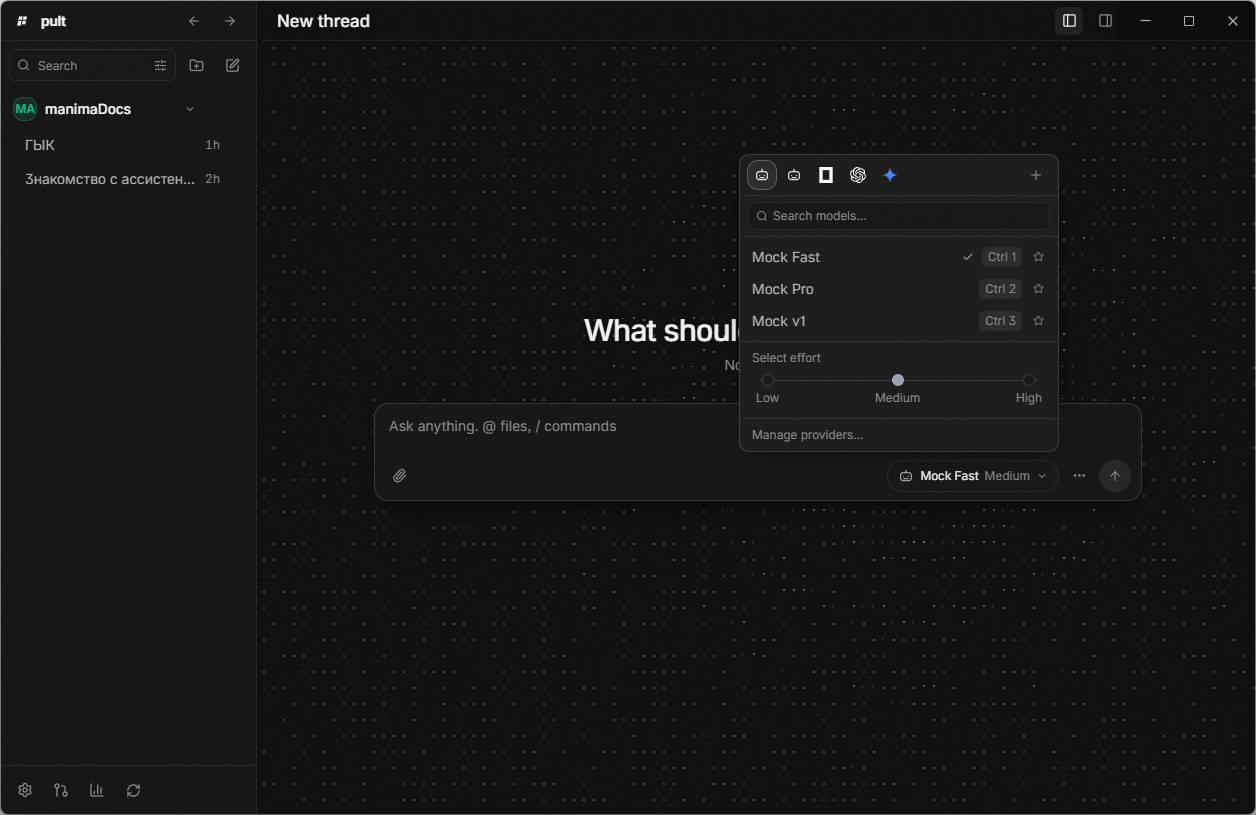
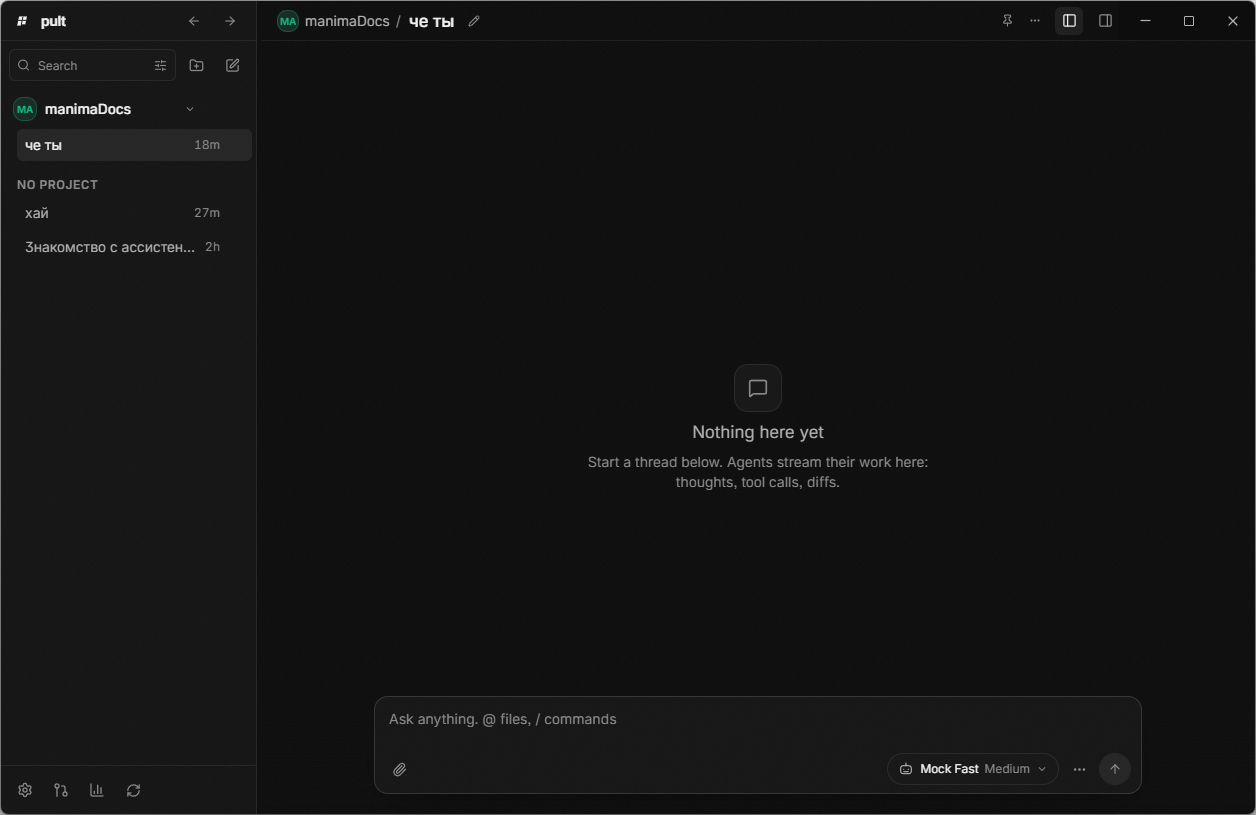
fix: prevent warmup storms and cap oversized image payloads

diff --git a/src/routes/__root.tsx b/src/routes/__root.tsx
@@ -1,4 +1,4 @@
-import { useEffect, useState } from "react";
+import { useEffect, useRef, useState } from "react";
 import { Outlet, createRootRoute, useRouter } from "@tanstack/react-router";
 import { Sidebar } from "../components/layout/Sidebar";
 import { RightPanel } from "../components/layout/RightPanel";
@@ -50,12 +50,22 @@ function RootLayout() {
   }, [pendingThreadId, router]);
 
   // Warm the selected provider in the project the next message will run in, so
-  // the first turn does not pay the 5–13 s CLI cold start.
+  // the first turn does not pay the 5–13 s CLI cold start. Debounced: a quick
+  // project/provider switch must not spawn several agents at once.
+  const projectRoot = projects.find((project) => project.id === selectedProjectId)?.rootPath;
+  const warmKey = `${selectedInstanceId ?? ""}|${projectRoot ?? ""}`;
+  const warmKeyRef = useRef("");
   useEffect(() => {
     if (!isTauri() || !selectedInstanceId) return;
-    const root = projects.find((project) => project.id === selectedProjectId)?.rootPath;
-    void providersWarmup(selectedInstanceId, root ?? null).catch(() => undefined);
-  }, [selectedInstanceId, selectedProjectId, projects]);
+    if (warmKeyRef.current === warmKey) return;
+    const timer = window.setTimeout(() => {
+      warmKeyRef.current = warmKey;
+      void providersWarmup(selectedInstanceId, projectRoot ?? null).catch(() => {
+        warmKeyRef.current = "";
+      });
+    }, 700);
+    return () => window.clearTimeout(timer);
+  }, [selectedInstanceId, projectRoot, warmKey]);
   useEffect(() => {
     void hydrateLayout();
   }, []);

diff --git a/src/components/chat/MessagesTimeline.tsx b/src/components/chat/MessagesTimeline.tsx
@@ -701,14 +701,20 @@ function findImageCandidate(value: unknown, depth = 0): ImageCandidate | null {
 }
 
 function ToolImage({ candidate }: { candidate: ImageCandidate }) {
-  const [src, setSrc] = useState<string | null>(candidate.dataUrl ?? null);
+  const tooLarge = (value: string) => value.length > 2_500_000;
+  const [src, setSrc] = useState<string | null>(
+    candidate.dataUrl && !tooLarge(candidate.dataUrl) ? candidate.dataUrl : null,
+  );
   const [failed, setFailed] = useState(false);
   useEffect(() => {
     if (src || !candidate.path) return;
     let cancelled = false;
     readImageDataUrl(candidate.path)
       .then((url) => {
-        if (!cancelled) setSrc(url);
+        if (!cancelled) {
+          if (tooLarge(url)) setFailed(true);
+          else setSrc(url);
+        }
       })
       .catch(() => {
         if (!cancelled) setFailed(true);
@@ -717,6 +723,9 @@ function ToolImage({ candidate }: { candidate: ImageCandidate }) {
       cancelled = true;
     };
   }, [candidate.path, src]);
+  if (candidate.dataUrl && tooLarge(candidate.dataUrl)) {
+    return <span className="text-xs text-text-tertiary">Image too large to preview</span>;
+  }
   if (failed) return null;
   if (!src) return <span className="text-xs text-text-tertiary">Loading image…</span>;
   return (

diff --git a/tests/diff-lines.test.tsx b/tests/diff-lines.test.tsx
@@ -18,7 +18,7 @@ function largePatch(pairs: number): string {
 }
 
 describe("DiffLines large patch cap", () => {
-  it("caps UnifiedLines at 2,000 rows and reveals all on click", () => {
+  it("caps UnifiedLines at 2,000 rows and reveals all on click", { timeout: 20_000 }, () => {
     const { container } = render(<UnifiedLines raw={largePatch(6000)} />);
 
     expect(container.querySelectorAll("[data-diff-line-row]").length).toBeLessThan(2100);
@@ -28,7 +28,7 @@ describe("DiffLines large patch cap", () => {
     expect(container.querySelectorAll("[data-diff-line-row]").length).toBeGreaterThanOrEqual(12000);
   });
 
-  it("caps SplitLines rows and reveals all on click", () => {
+  it("caps SplitLines rows and reveals all on click", { timeout: 20_000 }, () => {
     const { container } = render(<SplitLines raw={largePatch(6000)} />);
 
     expect(container.querySelectorAll("[data-diff-line-row]").length).toBeLessThan(2100);

diff --git a/src/components/chat/ChatHeader.tsx b/src/components/chat/ChatHeader.tsx
@@ -146,7 +146,7 @@ export function ChatHeader({
               <span
                 aria-hidden
                 data-project-badge
-                className="flex h-5.5 w-5.5 items-center justify-center rounded-md border text-xs leading-none font-semibold tracking-tight"
+                className="flex h-5.5 w-5.5 items-center justify-center rounded-md border text-[0.625rem] leading-none font-semibold tracking-tight"
                 style={{
                   backgroundColor: projectMonogramStyle.background,
                   color: projectMonogramStyle.color,

diff --git a/src/components/layout/ProjectCard.tsx b/src/components/layout/ProjectCard.tsx
@@ -68,7 +68,7 @@ export function ProjectCard({ threadId }: { threadId?: string | null }) {
           <span
             data-project-badge
             aria-hidden
-            className="flex h-6 w-6 shrink-0 items-center justify-center rounded-md border text-xs leading-none font-semibold tracking-tight"
+            className="flex h-6 w-6 shrink-0 items-center justify-center rounded-md border text-[0.625rem] leading-none font-semibold tracking-tight"
             style={{
               backgroundColor: monogram.background,
               color: monogram.color,

diff --git a/src/routes/settings.projects.tsx b/src/routes/settings.projects.tsx
@@ -42,7 +42,7 @@ function ProjectsSettings() {
               <span
                 data-project-badge
                 aria-hidden
-                className="flex h-6 w-6 shrink-0 items-center justify-center rounded-md border text-xs leading-none font-semibold tracking-tight"
+                className="flex h-6 w-6 shrink-0 items-center justify-center rounded-md border text-[0.625rem] leading-none font-semibold tracking-tight"
                 style={{
                   backgroundColor: monogram.background,
                   color: monogram.color,

diff --git a/src/components/layout/Sidebar.tsx b/src/components/layout/Sidebar.tsx
@@ -180,7 +180,7 @@ function ProjectRow({
         <span
           data-project-badge
           aria-hidden
-          className="flex h-6 w-6 shrink-0 items-center justify-center rounded-md border px-0.5 text-xs leading-none font-semibold tracking-tight"
+          className="flex h-6 w-6 shrink-0 items-center justify-center rounded-md border px-0.5 text-[0.625rem] leading-none font-semibold tracking-tight"
           style={{
             backgroundColor: monogram.background,
             color: monogram.color,

diff --git a/src/components/chat/LivingAscii.tsx b/src/components/chat/LivingAscii.tsx
@@ -3,7 +3,7 @@ import { cellBrightness, cellGlyph, type Ripple } from "../../lib/asciiWave";
 
 const CELL_W = 10;
 const CELL_H = 16;
-const FPS = 30;
+const FPS = 24;
 const FRAME_MS = 1000 / FPS;
 
 /**

diff --git a/src-tauri/src/drivers/acp.rs b/src-tauri/src/drivers/acp.rs
@@ -692,9 +692,20 @@ pub fn project_update(update: SessionUpdate) -> Vec<EventKind> {
         SessionUpdate::AgentMessageChunk { content } => match &content {
             // Agents that return generated images as content blocks (imagegen)
             // become a Markdown data URL so the transcript renders them inline.
-            ContentBlock::Image { data, mime_type } => vec![EventKind::AgentMessageDelta {
-                delta: format!("\n\n![generated image](data:{mime_type};base64,{data})\n\n"),
-            }],
+            // Multi-megabyte payloads must not block IPC/SQLite: cap them.
+            ContentBlock::Image { data, mime_type } => {
+                const MAX_INLINE_IMAGE_BYTES: usize = 2_000_000;
+                if data.len() > MAX_INLINE_IMAGE_BYTES {
+                    vec![EventKind::Notice {
+                        level: "warning".to_string(),
+                        message: "Generated image is too large to preview".to_string(),
+                    }]
+                } else {
+                    vec![EventKind::AgentMessageDelta {
+                        delta: format!("\n\n![generated image](data:{mime_type};base64,{data})\n\n"),
+                    }]
+                }
+            }
             _ => text_of(&content)
                 .map(|delta| vec![EventKind::AgentMessageDelta { delta }])
                 .unwrap_or_default(),
@@ -723,7 +734,7 @@ pub fn project_update(update: SessionUpdate) -> Vec<EventKind> {
                 .into_iter()
                 .map(|l| l.path)
                 .collect(),
-            raw_input,
+            raw_input: cap_tool_payload(raw_input),
         }],
         SessionUpdate::ToolCallUpdate {
             tool_call_id,
@@ -734,8 +745,8 @@ pub fn project_update(update: SessionUpdate) -> Vec<EventKind> {
         } => vec![EventKind::ToolCallUpdate {
             tool_call_id,
             status: status.map(|s| tool_status_str(s).to_string()),
-            content: content.map(|c| serde_json::to_value(c).unwrap_or_default()),
-            raw_output,
+            content: cap_tool_payload(content.map(|c| serde_json::to_value(c).unwrap_or_default())),
+            raw_output: cap_tool_payload(raw_output),
         }],
         SessionUpdate::Plan { entries } => vec![EventKind::Plan {
             entries: entries
@@ -830,6 +841,21 @@ pub fn project_update(update: SessionUpdate) -> Vec<EventKind> {
     }
 }
 
+/// Tool payloads can carry generated images/base64. Keep IPC and SQLite
+/// responsive by replacing multi-megabyte tool blobs with a short marker.
+fn cap_tool_payload(value: Option<Value>) -> Option<Value> {
+    const MAX_BYTES: usize = 2_000_000;
+    let value = value?;
+    match serde_json::to_string(&value) {
+        Ok(text) if text.len() > MAX_BYTES => Some(serde_json::json!({
+            "truncated": true,
+            "bytes": text.len(),
+            "note": "large tool payload omitted",
+        })),
+        _ => Some(value),
+    }
+}
+
 /// Joined text of every text content block (compaction summaries are
 /// user-displayable content; non-text blocks have no timeline rendering yet).
 fn text_blocks_of(blocks: &[ContentBlock]) -> String {
@@ -896,6 +922,7 @@ pub fn tool_call_summary(data: &ToolCallUpdateData) -> String {
 #[cfg(test)]
 mod tests {
     use super::*;
+    use crate::protocol::types as wire;
     use serde_json::json;
 
     #[test]
@@ -908,6 +935,31 @@ mod tests {
         assert!(line.chars().count() <= 600);
         assert!(line.starts_with("← "));
         assert!(!line.contains('\u{FFFD}'), "no broken characters");
+    }
+
+    #[test]
+    fn oversized_tool_payload_is_truncated() {
+        let big = json!({"data": "A".repeat(2_000_001)});
+        let capped = cap_tool_payload(Some(big)).expect("capped payload");
+        assert_eq!(capped["truncated"], true);
+        let small = cap_tool_payload(Some(json!({"ok": true}))).expect("small payload");
+        assert_eq!(small["ok"], true);
+    }
+
+    #[test]
+    fn oversized_generated_image_becomes_a_notice() {
+        let update = wire::SessionUpdate::AgentMessageChunk {
+            content: wire::ContentBlock::Image {
+                data: "A".repeat(2_000_001),
+                mime_type: "image/png".into(),
+            },
+        };
+        let projected = project_update(update);
+        assert!(matches!(
+            projected.as_slice(),
+            [EventKind::Notice { level, message }]
+                if level == "warning" && message.contains("too large")
+        ));
     }
 
     #[test]

diff --git a/src-tauri/src/runtime/mod.rs b/src-tauri/src/runtime/mod.rs
@@ -244,6 +244,20 @@ struct WarmConn {
     created: std::time::Instant,
 }
 
+/// Clears the in-flight marker even when warmup fails or the app navigates on.
+struct WarmGuard {
+    runtime: Arc<AgentRuntime>,
+    instance_id: String,
+}
+
+impl Drop for WarmGuard {
+    fn drop(&mut self) {
+        if let Ok(mut inner) = self.runtime.inner.lock() {
+            inner.warming.remove(&self.instance_id);
+        }
+    }
+}
+
 struct Inner {
     /// Active runs: run_id → live connection/session.
     runs: HashMap<String, RunState>,
@@ -261,6 +275,8 @@ struct Inner {
     ptys: Arc<crate::runtime::ptys::PtyRegistry>,
     /// Pre-initialized agent processes (selected provider) ready for a session.
     warm: HashMap<String, WarmConn>,
+    /// Providers whose warmup is currently in flight (no duplicate spawns).
+    warming: std::collections::HashSet<String>,
     /// The agent matrix (§4.5 config.toml instances; mock fallback).
     instances: Vec<crate::config::InstanceSpec>,
 }
@@ -312,6 +328,7 @@ impl AgentRuntime {
                 terminals,
                 ptys: Arc::new(crate::runtime::ptys::PtyRegistry::new(sink)),
                 warm: HashMap::new(),
+                warming: std::collections::HashSet::new(),
                 instances,
             }),
             pool: crate::runtime::pool::IdlePool::with_terminals(pool_terminals),
@@ -347,7 +364,7 @@ impl AgentRuntime {
             env: spawn_config.env.iter().map(|(k, v)| (k.clone(), v.clone())).collect(),
         };
         {
-            let inner = self.inner.lock().expect("runtime lock poisoned");
+            let mut inner = self.inner.lock().expect("runtime lock poisoned");
             if let Some(existing) = inner.warm.get(instance_id) {
                 if existing.root == root
                     && existing.spawn_sig == spawn_sig
@@ -357,7 +374,16 @@ impl AgentRuntime {
                     return Ok(());
                 }
             }
+            // Project/provider switches can fire several warmup requests while a
+            // cold Codex start is still in flight: one spawn is enough.
+            if !inner.warming.insert(instance_id.to_string()) {
+                return Ok(());
+            }
         }
+        let _guard = WarmGuard {
+            runtime: Arc::clone(self),
+            instance_id: instance_id.to_string(),
+        };
         let (conn, streams) = AcpConn::spawn(&spawn_config)
             .map_err(|e| crate::PultError::internal(format!("warmup spawn: {e}")))?;
         let conn = Arc::new(conn);

diff --git a/src-tauri/src/ipc/mod.rs b/src-tauri/src/ipc/mod.rs
@@ -942,8 +942,8 @@ pub async fn read_image_data_url(
         }
         let meta = std::fs::metadata(&canonical)
             .map_err(|e| PultError::internal(format!("image not readable: {e}")))?;
-        if !meta.is_file() || meta.len() > 20 * 1024 * 1024 {
-            return Err(PultError::internal("image must be a file up to 20 MB"));
+        if !meta.is_file() || meta.len() > 8 * 1024 * 1024 {
+            return Err(PultError::internal("image must be a file up to 8 MB"));
         }
         let mime = match canonical
             .extension()

diff --git a/DEVLOG.md b/DEVLOG.md
@@ -2,6 +2,16 @@
 
 One entry per milestone — decisions made, deviations from the spec, known issues (§0.6).
 
+## Pult v3.2 — T3 parity pass (2026-11-15)
+
+**Scope shipped.** A broad T3-alignment pass driven by the user's annotated screenshots, split into test-first tasks (Gemini authored the tests, DeepSeek implemented). The Right Panel now opens with a project card (name, Open in editor, branch, publish state, uncommitted `+N -N`, previous-agent counts) plus a `+` surface menu for Files / Diff / Terminal. Provider marks are real bundled SVGs (Claude starburst, OpenAI knot, Gemini spark, OpenCode) with a license note and a monogram fallback. The composer picker is T3-shaped: provider icon tabs, `Search models…`, model rows with `Ctrl 1…9` shortcuts and favorite stars, and a dot-track effort control. The empty state is now “What should we work on?” with the project name, no giant logo, and a theme-colored living ASCII canvas that drifts and ripples around the pointer/background clicks (reduced-motion aware, 30 fps). Composer no longer repeats the workspace/branch line (the project card owns it) and switches its send button to a queue icon while a run is active. Queued messages render as rows with Edit/Remove and a queue hint. Thinking/tool rows are flat inline lines; consecutive searches collapse into “Searched code N times”; expanded details show readable command/stdout with raw JSON behind a `Raw` toggle and inline images for imagegen payloads. Message hover shows Copy, Branch (starts a real new thread and prefills its composer) and the send time. The transcript token footer is gone. Custom context menus replace the WebView menu (Cut/Copy/Paste/Select All, selected-text Copy, link Open/Copy; thread/project rows keep their real menu), and every popover closes on outside click. Sidebar rows get right-edge chevrons and dark tinted project badges with bright initials; the footer is icon-only with hover labels and the search placeholder is “Search”. Settings gained a searchable grouped nav with General, Chat, Projects pages backed by persisted settings (confirm-delete, send key, follow-streaming, timestamps). Generated images returned as ACP image content blocks are projected as Markdown data URLs. Enabled providers are preflighted in the background at startup with cached status, and the selected provider is pre-spawned/initialized (10 min TTL) so the first message skips the Codex/Claude CLI cold start. The app icon was regenerated with a larger mark.
+
+**Verification.** `pnpm typecheck`, `pnpm lint`, `pnpm test` 260/260 green; `cargo test --lib` 154/154 green with the known ConPTY flake skipped; `cargo clippy --all-targets -D warnings` clean; `pnpm build` and `pnpm tauri build --no-bundle` pass. Fresh screenshots: `docs/screenshots/v3-shell-header.png` (native window, real provider icons in the picker), `v3-live-ascii.png`, `v3-composer-picker.png`, `v3-settings-general.png`, `v3-settings-chat.png`, `v3-settings-projects.png`.
+
+**Freeze hardening (user report).** Project/provider switches now debounce pre-warm by 700 ms and the runtime refuses duplicate warmup spawns while a cold CLI start is in flight, so rapid switching cannot launch a pile of Codex processes. Image payloads are capped end to end: ACP image blocks inline at most 2 MB, tool payloads above 2 MB become a short `truncated` marker instead of crossing IPC/SQLite, local image files above 8 MB are refused, and the renderer shows “Image too large to preview” rather than decoding a huge data URL. The living ASCII canvas runs at 24 fps and pauses when the window is hidden. Project-badge initials are 10 px.
+
+**Known gaps.** Project scripts and a Pull Requests surface in the Right Panel are still pending; the Codex imagegen wire shape was not captured against a live Codex run (the renderer handles base64/file payloads and ACP image blocks); extended thread-menu items (regenerate title, mark unread, auto-settle) are not implemented; the Branch action copies the message intent into a fresh thread, not the full transcript; permission mode still lives in the composer overflow; warm-start latency was not re-measured after the pre-warm change.
+
 ## Pult v3.1 — UI/UX audit + line-by-line code review (2026-11-15)
 
 **Scope shipped.** After v3 acceptance, Gemini audited 13 fresh screens of every route (1440×900, 1024×700, light theme, open right panel, palette, composer picker) and then reviewed every frontend file, followed by every backend module. All Critical/Important findings were fixed with regression tests; both final re-reviews returned **review clean**.
